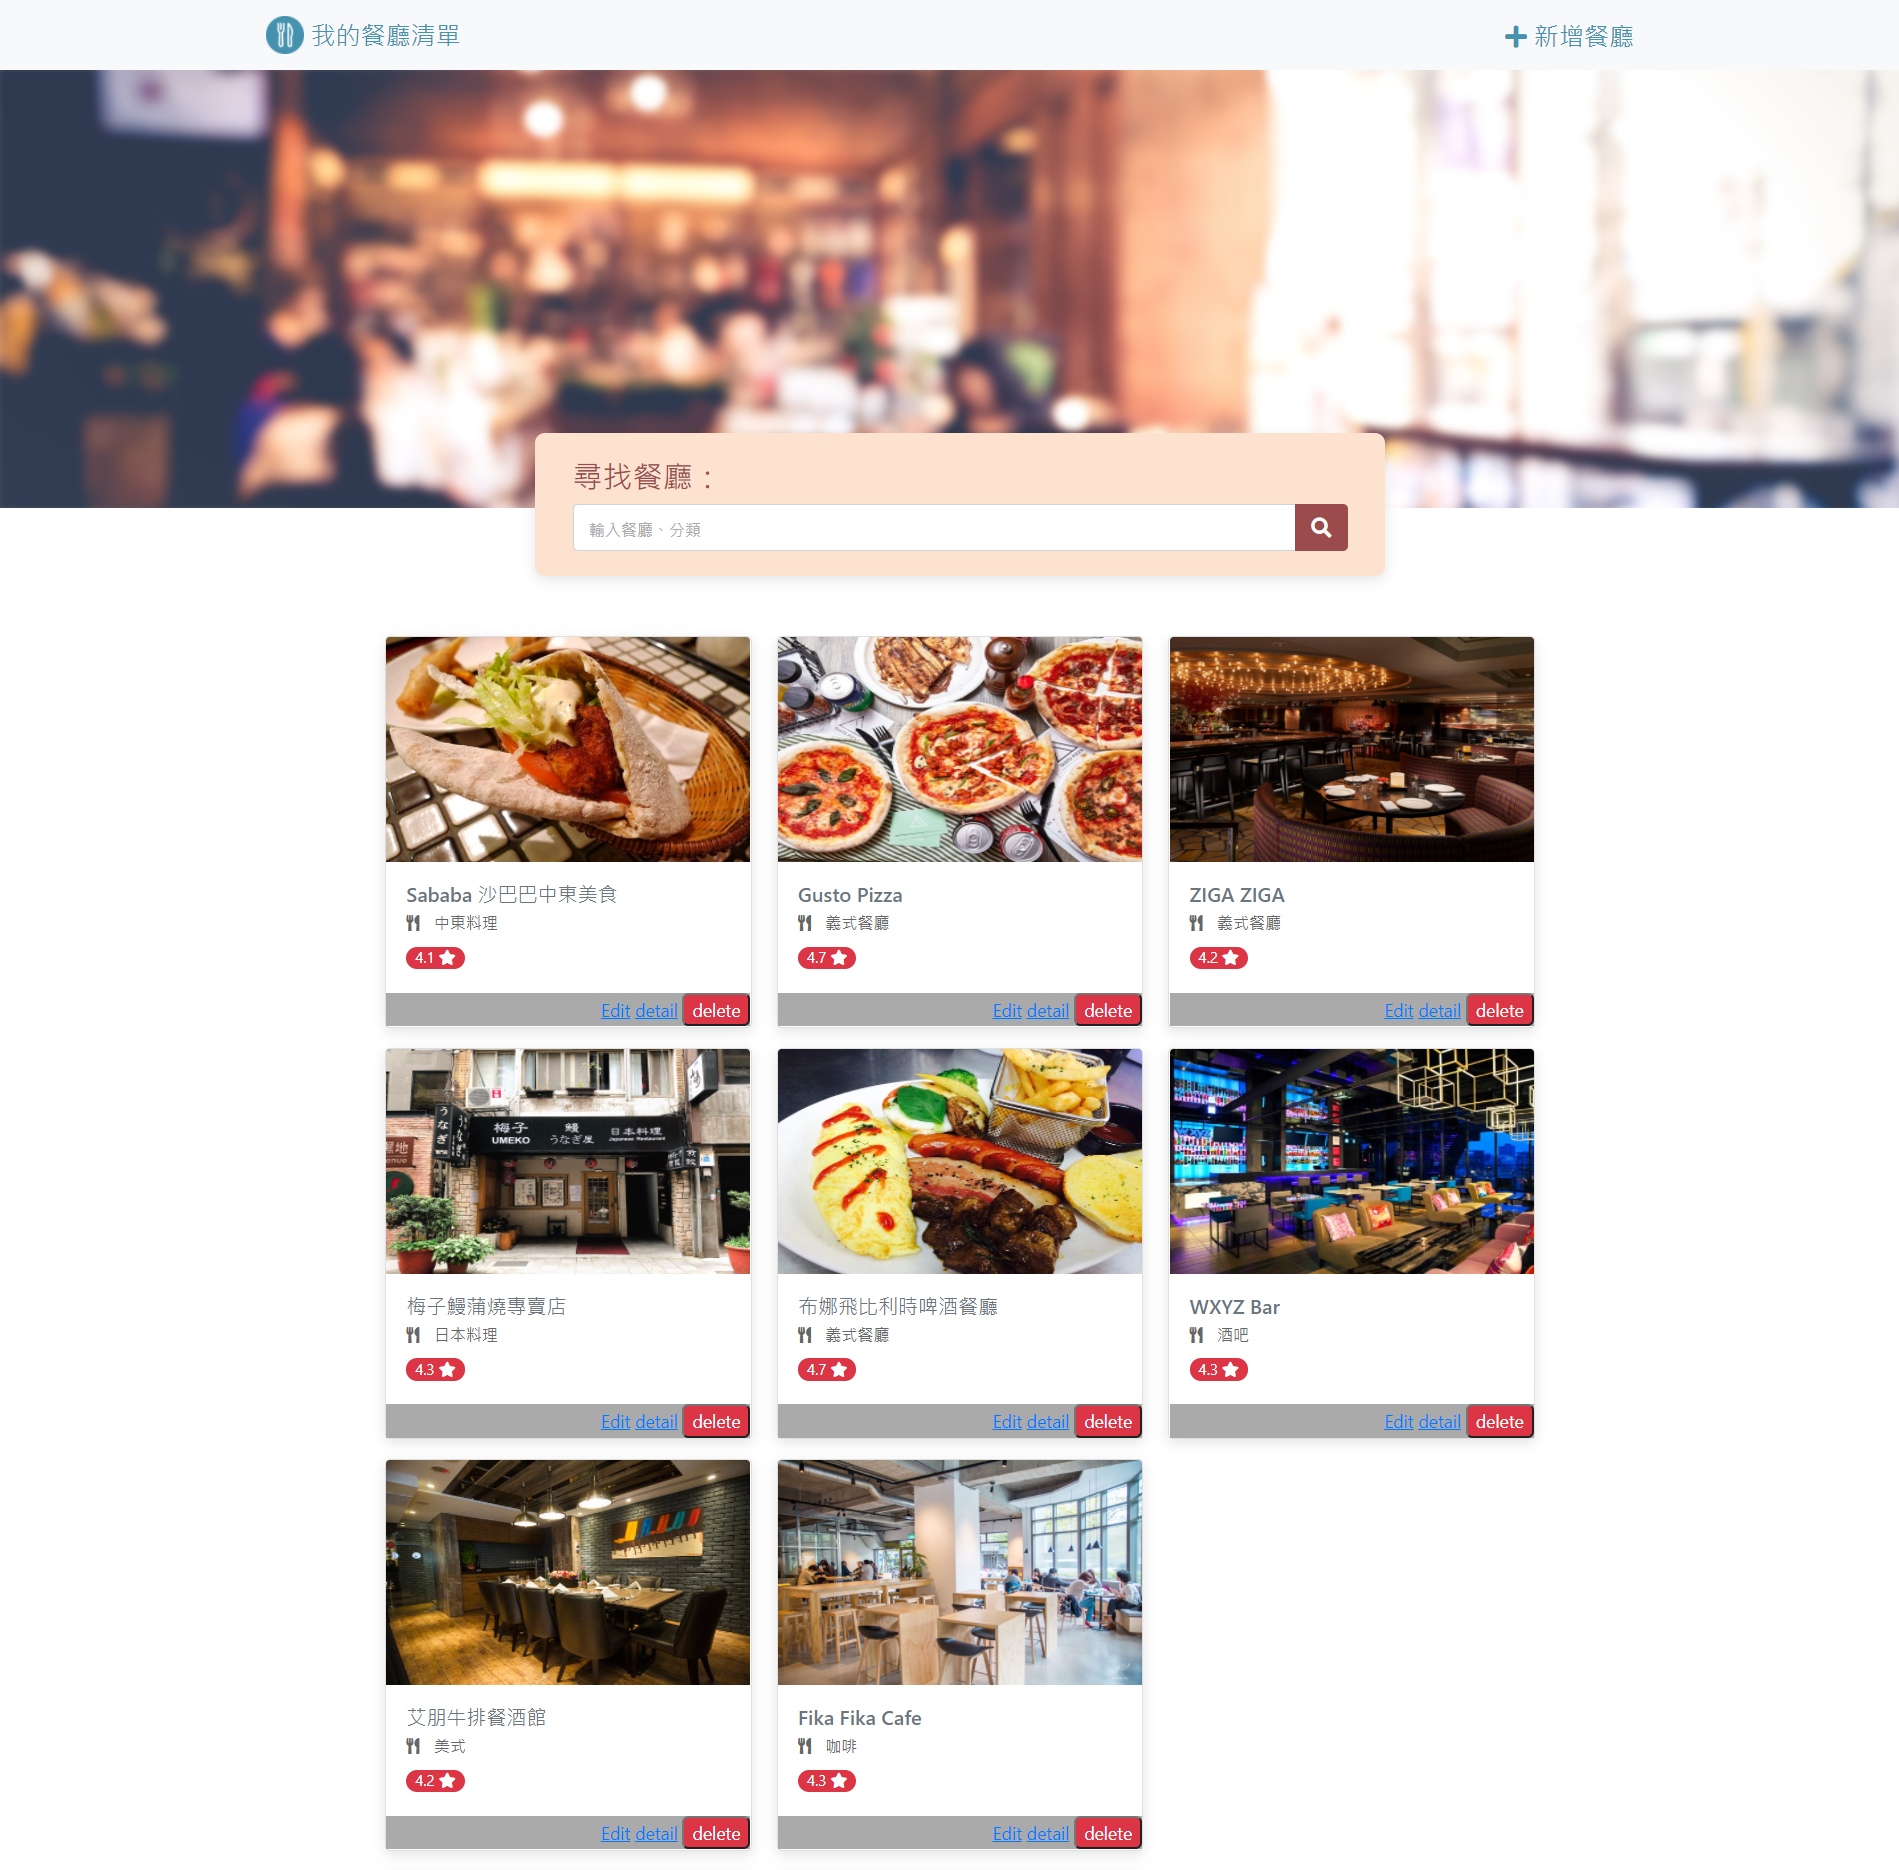
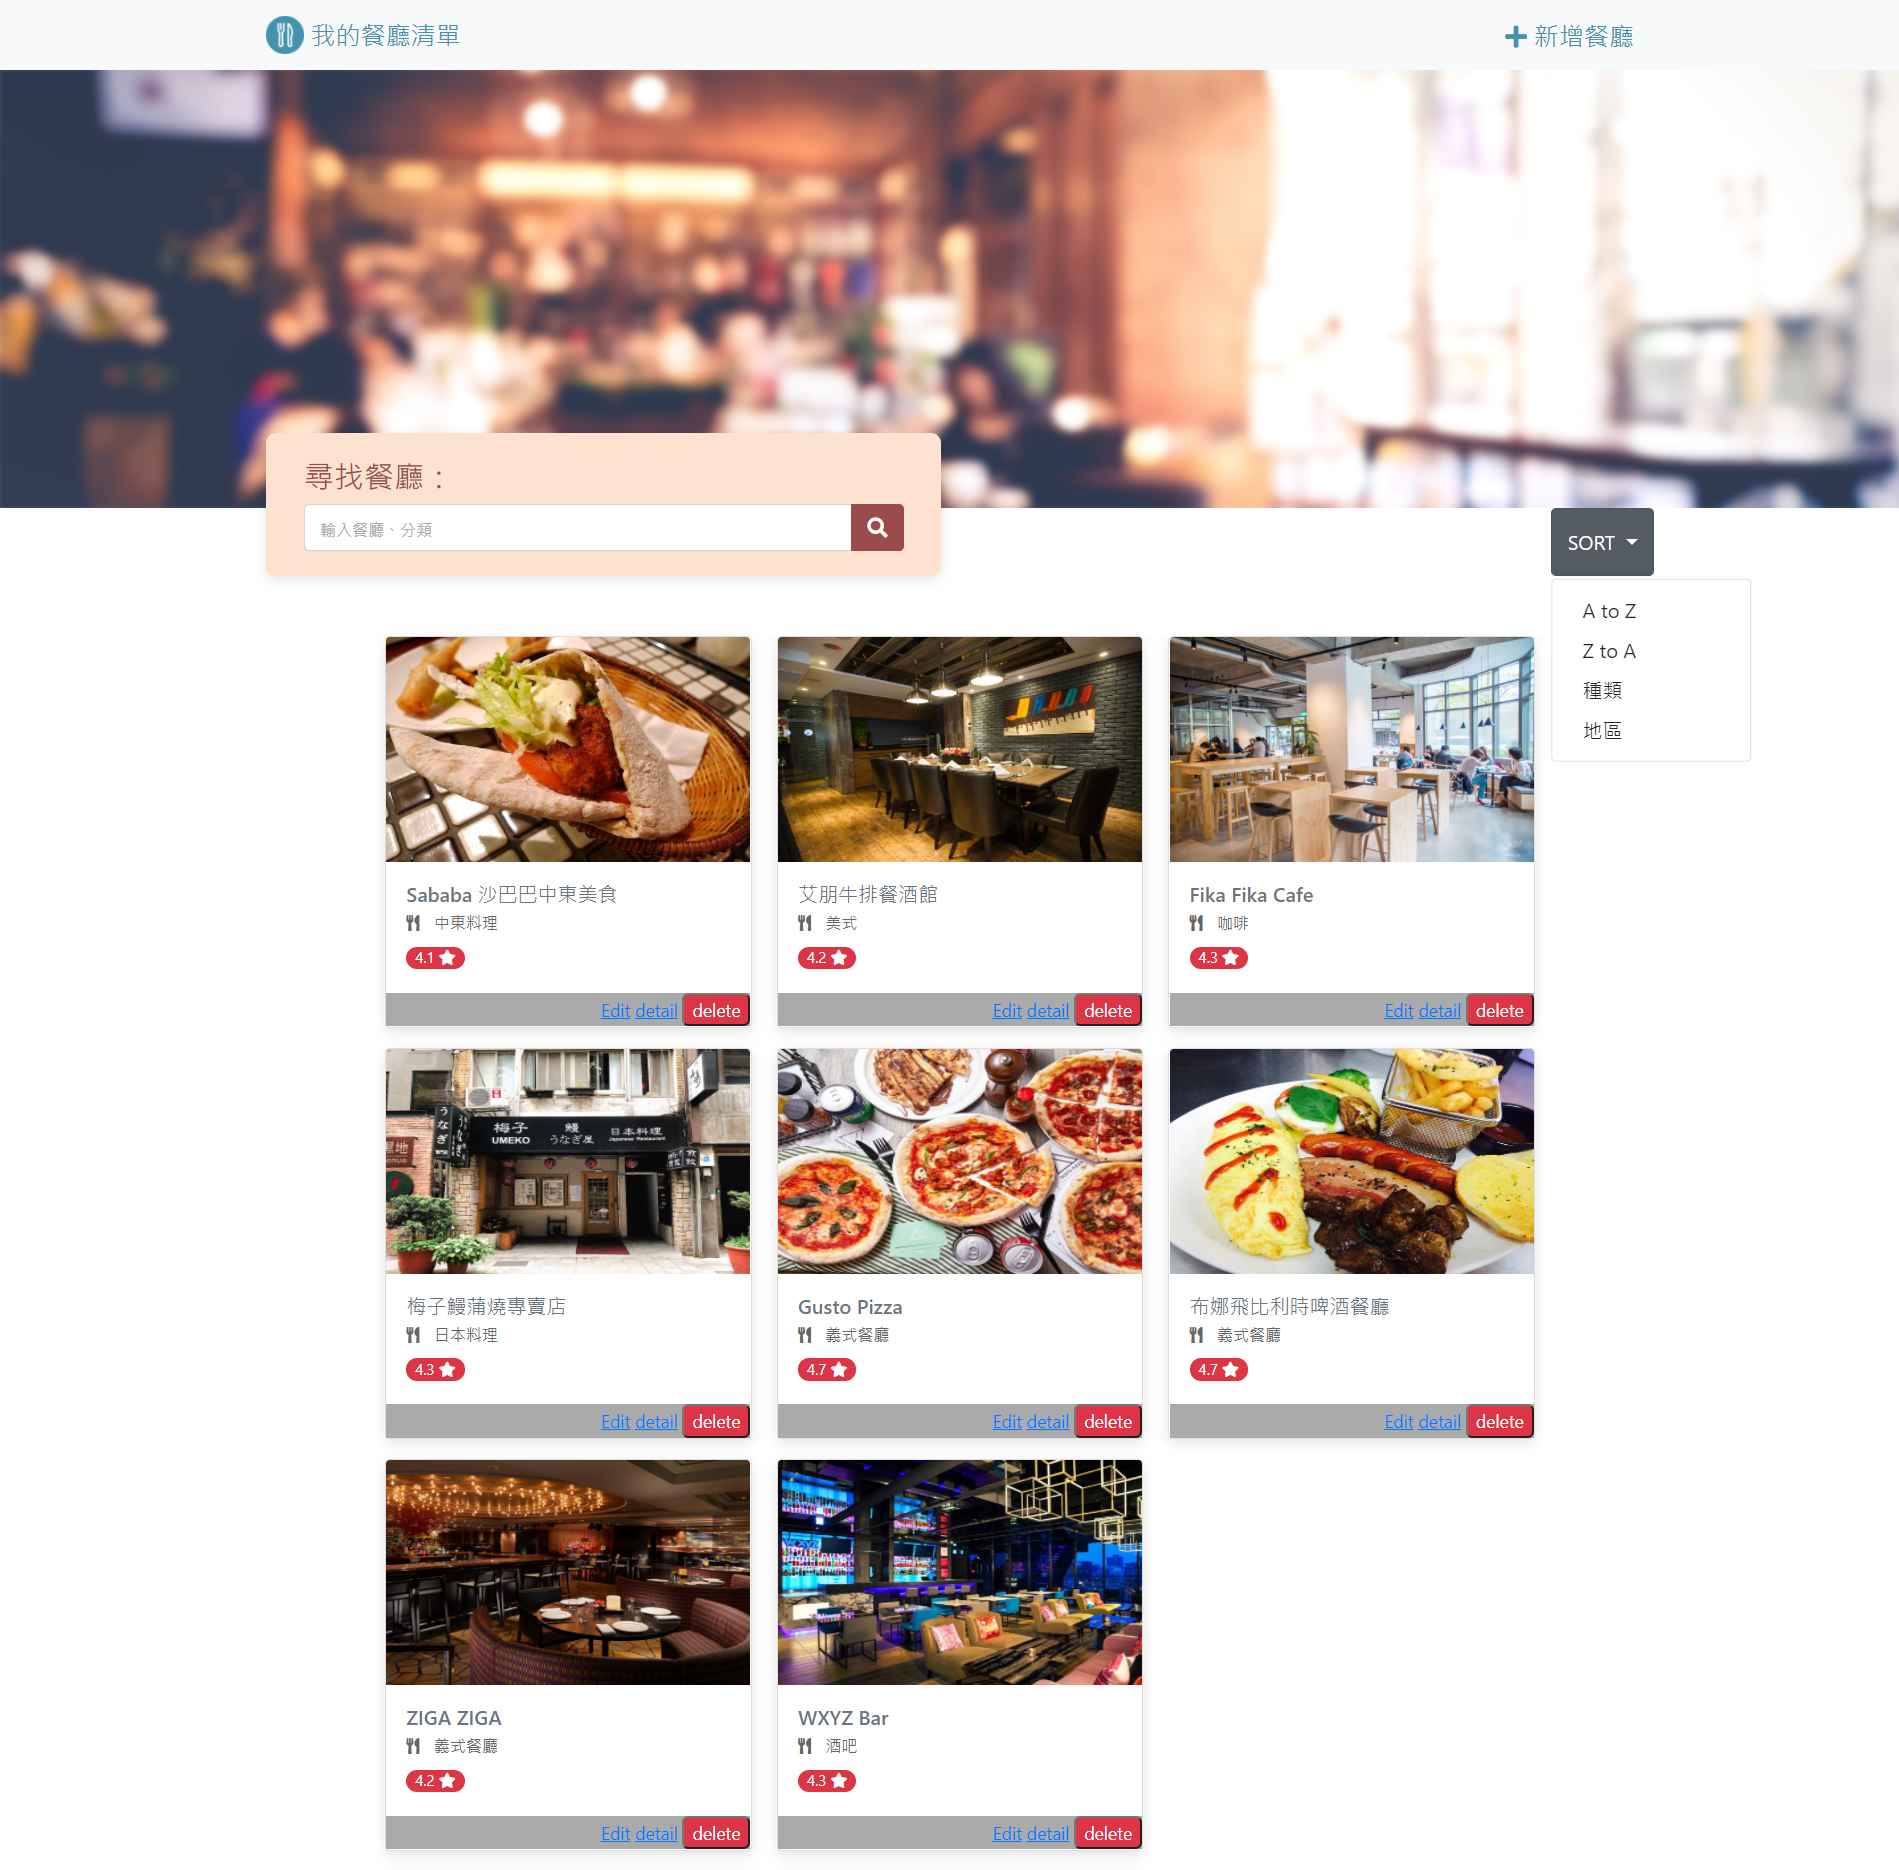
feat: revise pictures and README

diff --git a/README.md b/README.md
@@ -10,9 +10,10 @@
  * User can click the restaurant photo to get the information (address, phone number...)
  * There're 4 function (Create, Edit, Detail, Delete) add in the front page of the website.
  * User can click the Create button (+) to create the new restaurant list.
- * User cna click the Edit button to edit the restaurant informaion.
- * User can click the Detail button to get the restaurant informaion.
+ * User cna click the Edit button to edit the restaurant information.
+ * User can click the Detail button to get the restaurant information.
  * User can click the Delete button to delete the restaurant from the list.
+ * There's a Sort button on the front page.
  
 ## How to Use
  * Git clone
@@ -35,3 +36,4 @@
  * express-handlebars: 5.3.2
  * body-parser: 1.19.0
  * mongoose: 5.13.7
+ * method-override: 3.0.0
